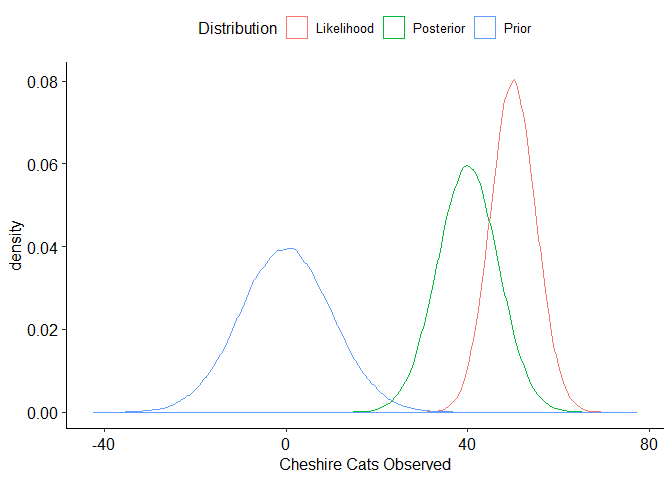
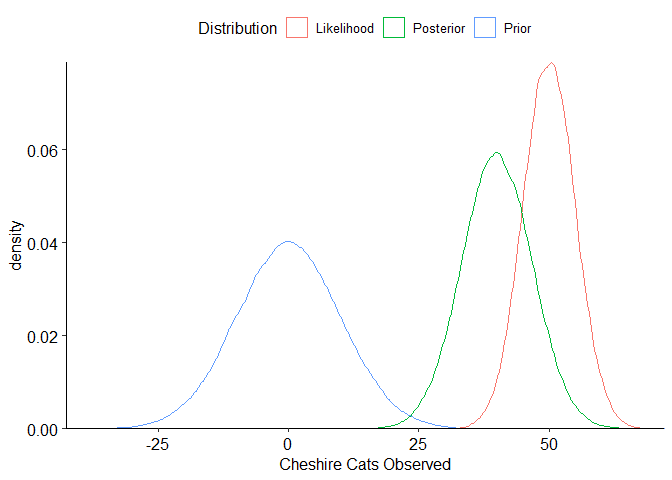
Housekeeping.

diff --git a/reprex_bayes_gauss.md b/reprex_bayes_gauss.md
@@ -1,25 +1,19 @@
----
-title: 
-output: rmarkdown::github_document
----
 
-Mock up a posterior predictive from two artificial Gaussian distributions.
+Mock up a posterior predictive from two artificial Gaussian
+distributions.
 
 # Packages
 
-```{r pac, warning = FALSE, message = FALSE}
-
+``` r
 library(tidyverse)
 library(ggpubr)
-
 ```
 
 # Data
 
 Generate some data, then find a posterior.
 
-```{r dat}
-
+``` r
 n = 1e+5 # Set a count of observations.
 u0 = 0 # Set a mean for the prior probability distribution.
 s0 = 10 # Set a standard deviation for "".
@@ -39,15 +33,13 @@ dat =
   pivot_longer(cols = everything(),
                names_to = "Distribution",
                values_to = "Cheshire Cats Observed")
-
 ```
 
 # Visualization
 
 Get a neat illustration.
 
-```{r vis}
-
+``` r
 dat %>% 
   ggplot() +
   geom_density(aes(x = `Cheshire Cats Observed`,
@@ -56,6 +48,6 @@ dat %>%
   scale_x_continuous(expand = c(0, 0)) +
   scale_y_continuous(expand = c(0, 0)) +
   theme_pubr()
-
 ```
 
+![](reprex_bayes_gauss_files/figure-gfm/vis-1.png)<!-- -->
